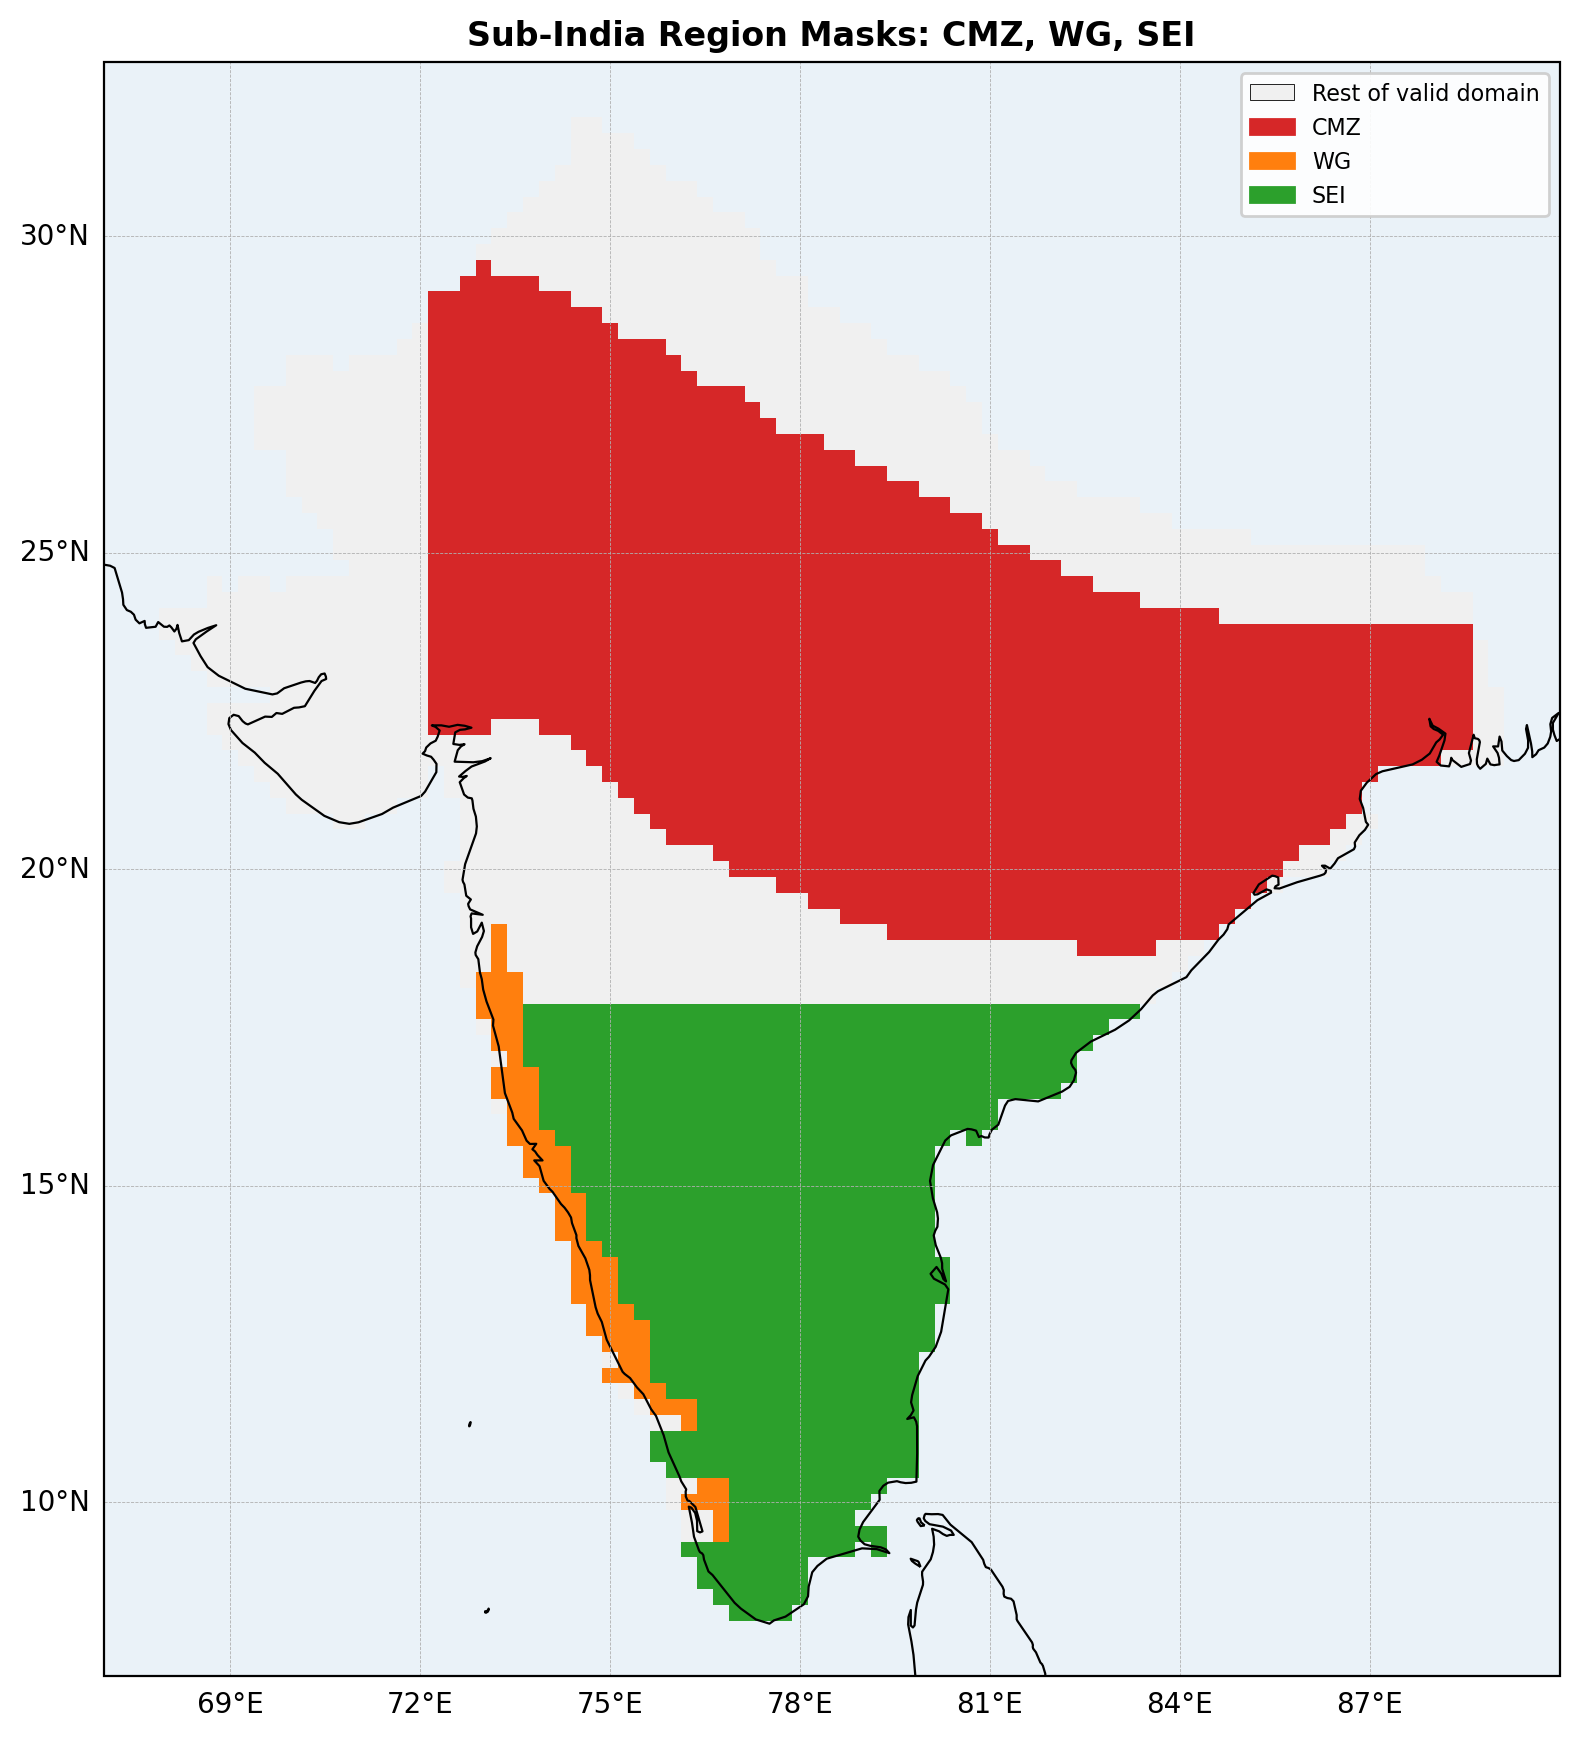
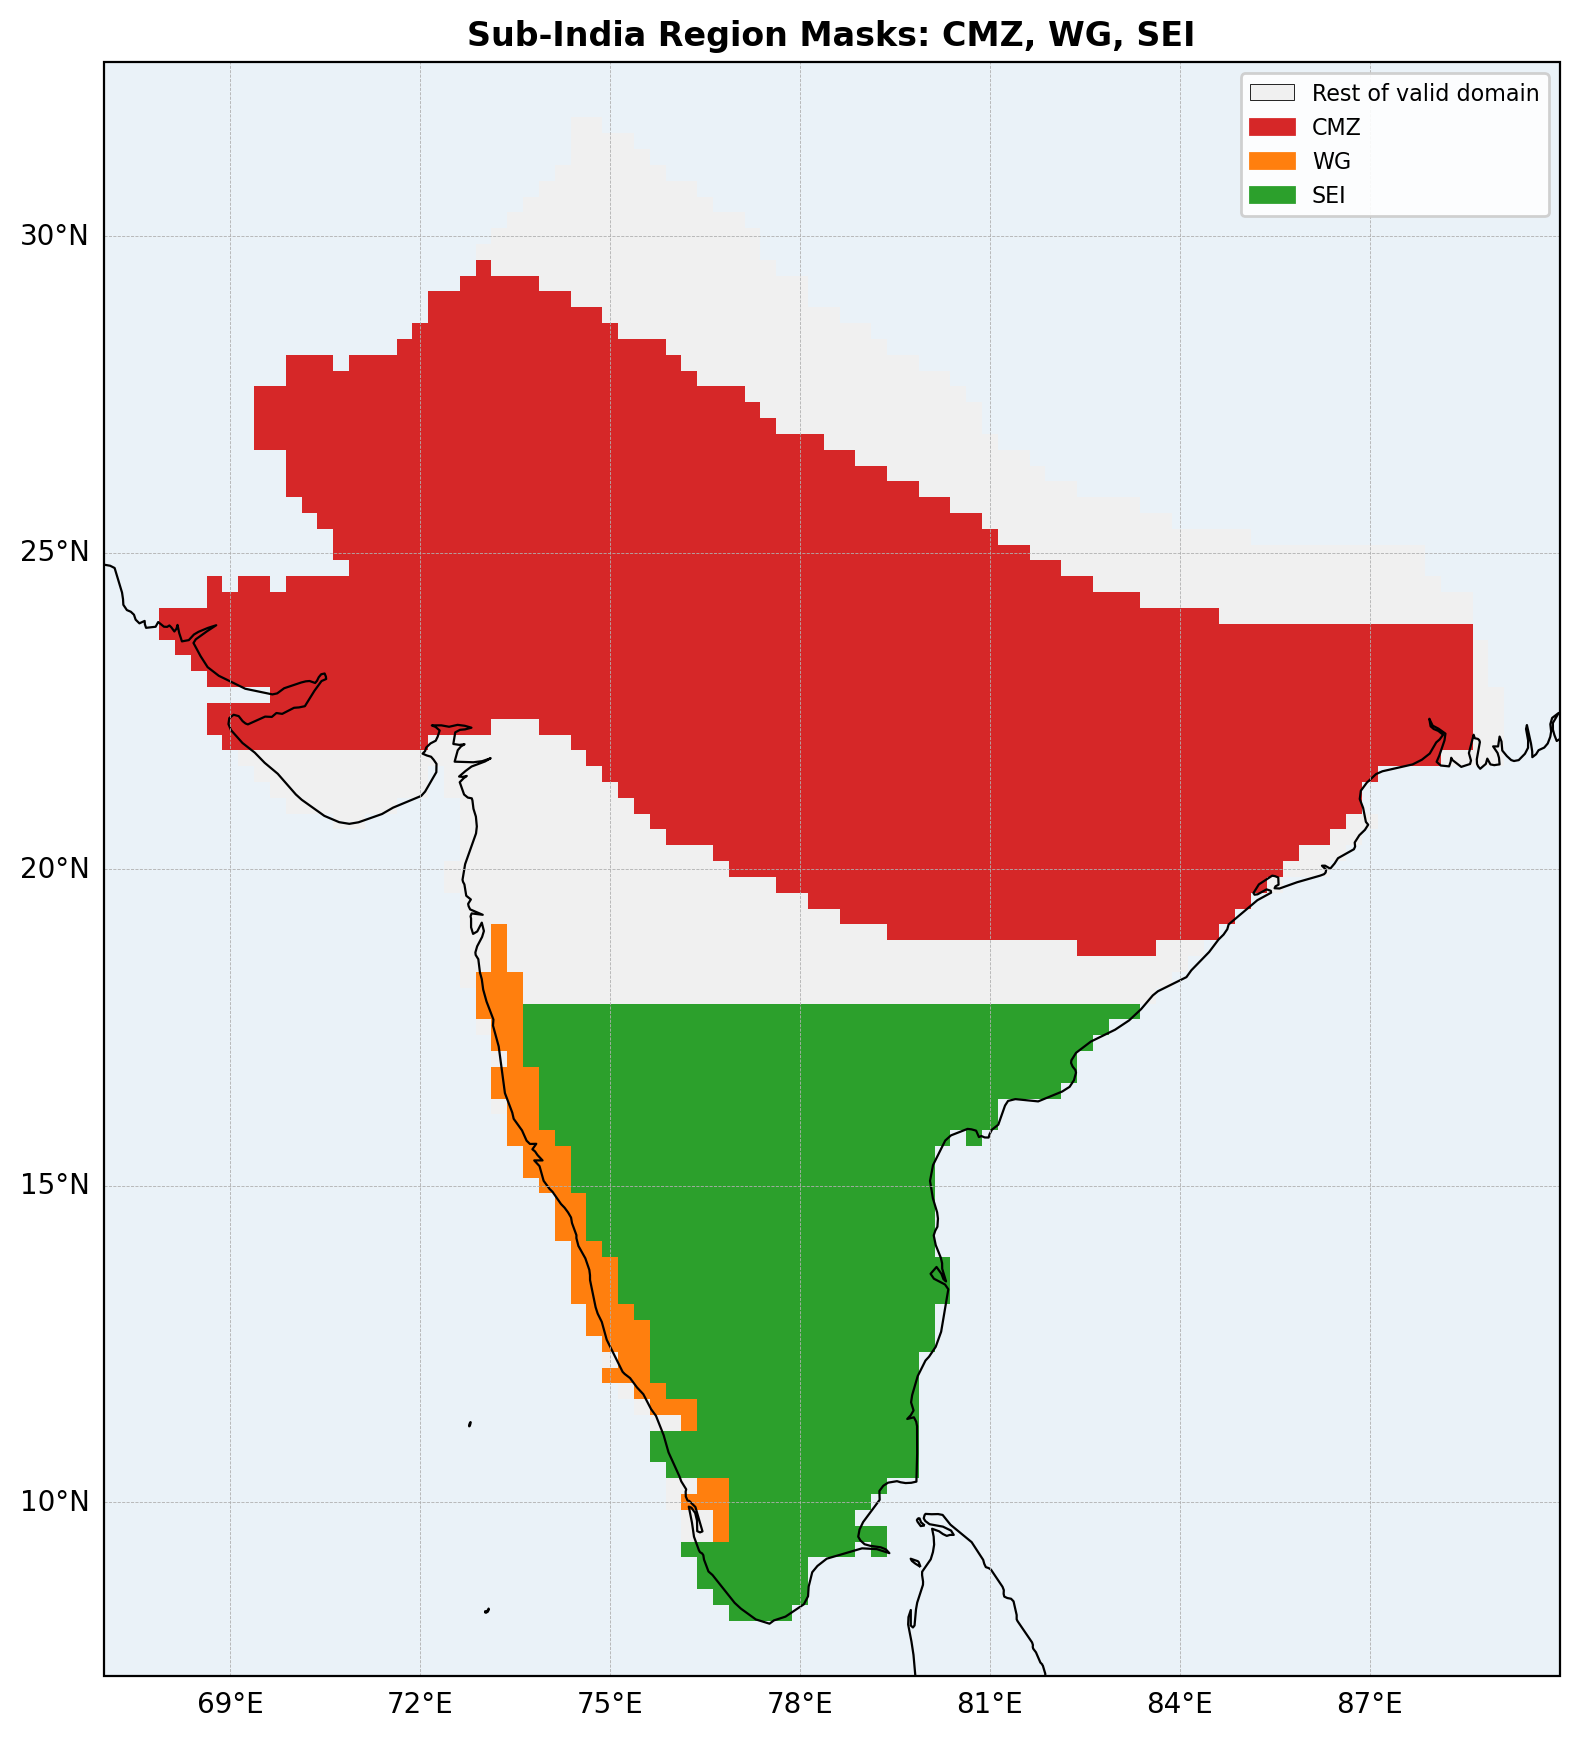
Let CMZ's west edge follow India's real border, not a straight cutoff
compute_subregion_indices.py and plot_eof_comparison_with_regions.py: removed
the west-side longitude cap (previously 72.2E) from the CMZ mask. The east
cap (CMZ_LON_MAX = 88.5) stays, since that's still needed to stop the band
bleeding into northeast India. On the west, the region is now bounded only
by the `valid` domain - i.e. India's actual political border with Pakistan
and the Arabian Sea coastline in Rajasthan/Gujarat - so the north/south
boundary curves' interpolated limits hold flat westward until they hit that
real border, rather than being cut off by an arbitrary vertical line.

CMZ grid points: 1560 -> 1839. Regenerated subregion_indices.csv,
subregion_masks.png, the 17x17 correlation matrix (CMZ-vs-AIRI back up to
0.93, other CMZ correlations shift modestly), and
eof_comparison_with_regions.png.

Changed region(s): [[0.0931, 0.1864, 0.2793, 0.435]]

diff --git a/compute_subregion_indices.py b/compute_subregion_indices.py
@@ -6,14 +6,19 @@ Region definitions (from the user, not independently derived):
   - CMZ: the band between two irregular north/south boundary curves from
     Gadgil et al. (2019) Fig. 3(a), each varying with longitude (not a
     lat/lon box). At each grid point's longitude, the north and south limits
-    are linearly interpolated from the boundary vertices below. Unlike a
-    naive interpolation, this band does NOT extend into northeast India -
-    it's explicitly capped to lon [72.2, 88.5] (a grid point outside that
-    range is never in CMZ, regardless of latitude), rather than holding the
-    nearest boundary vertex flat past the endpoints. A grid point is in CMZ
-    if its longitude is in that range AND its latitude falls between the
-    interpolated south and north limits, intersected with the dataset's own
-    `valid` (monsoon_mask) domain.
+    are linearly interpolated from the boundary vertices below. This band
+    does NOT extend into northeast India - it's explicitly capped at
+    CMZ_LON_MAX = 88.5E (a grid point east of that is never in CMZ,
+    regardless of latitude), rather than holding the north curve's last
+    vertex flat past its endpoint. The WEST side has no such cap: west of
+    the curves' first vertices (72.2E south / 73.2E north), their
+    interpolated latitude limits hold flat at each curve's westernmost
+    value, and the region is bounded there only by the dataset's own
+    `valid` (monsoon_mask) domain - i.e. India's actual western border with
+    Pakistan and the Arabian Sea coastline in Rajasthan/Gujarat, not an
+    arbitrary straight longitude cutoff. A grid point is in CMZ if its
+    longitude is <= CMZ_LON_MAX AND its latitude falls between the
+    interpolated south and north limits, intersected with `valid`.
   - WG: grid points with climatological mean JJAS rainy days (>1mm/day,
     matching this project's threshold convention) exceeding 100 days.
     Checked empirically (see conversation) that this threshold alone, with
@@ -65,8 +70,9 @@ RAINY_DAY_THRESHOLD = 1  # mm/day, matches compute_airi_indices.py
 WG_RAINY_DAYS_THRESHOLD = 100
 DATA_EXTENT = [67.0, 90.0, 7.25, 32.75]
 
-# (lon, lat) pairs, Gadgil et al. (2019) Fig. 3(a). Band spans lon [72.2, 88.5]
-# only - does not extend into northeast India (see CMZ_LON_RANGE below).
+# (lon, lat) pairs, Gadgil et al. (2019) Fig. 3(a). Capped east of CMZ_LON_MAX
+# (does not extend into northeast India); open on the west, bounded only by
+# `valid` (India's actual border) - see CMZ_LON_MAX below.
 NORTH_BOUNDARY = [
     (73.2, 29.5), (73.5, 29.4), (73.9, 29.2), (74.3, 29.0), (74.6, 28.8), (74.9, 28.7),
     (75.2, 28.5), (75.7, 28.3), (76.0, 28.0), (76.3, 27.8), (76.9, 27.6), (77.2, 27.4),
@@ -83,7 +89,7 @@ SOUTH_BOUNDARY = [
     (79.8, 19.0), (80.7, 18.8), (81.1, 18.8), (81.5, 18.8), (81.8, 18.8), (83.1, 18.7),
     (83.9, 18.8), (84.5, 19.0), (84.9, 19.2), (87.4, 21.6), (87.7, 21.7), (88.3, 21.8),
 ]
-CMZ_LON_RANGE = (72.2, 88.5)
+CMZ_LON_MAX = 88.5  # east cap only; west side bounded by `valid` (India's own border)
 SEI_LAT_LIMIT = 18.0
 
 ds = xr.open_dataset('data/rainfall/imd_rain_daily_0p25_monsoon-masked_1901-2020.nc')
@@ -101,8 +107,7 @@ north_lons, north_lats = zip(*sorted(NORTH_BOUNDARY))
 south_lons, south_lats = zip(*sorted(SOUTH_BOUNDARY))
 north_limit = xr.apply_ufunc(np.interp, lon2d, kwargs={'xp': north_lons, 'fp': north_lats})
 south_limit = xr.apply_ufunc(np.interp, lon2d, kwargs={'xp': south_lons, 'fp': south_lats})
-cmz_lon_in_range = (lon2d >= CMZ_LON_RANGE[0]) & (lon2d <= CMZ_LON_RANGE[1])
-cmz_mask = valid & cmz_lon_in_range & (lat2d >= south_limit) & (lat2d <= north_limit)
+cmz_mask = valid & (lon2d <= CMZ_LON_MAX) & (lat2d >= south_limit) & (lat2d <= north_limit)
 
 # --- WG ------------------------------------------------------------------
 rainy_mask = jjas > RAINY_DAY_THRESHOLD

diff --git a/plot_eof_comparison_with_regions.py b/plot_eof_comparison_with_regions.py
@@ -43,7 +43,9 @@ WG_RAINY_DAYS_THRESHOLD = 100
 DATA_EXTENT = [67.0, 90.0, 7.25, 32.75]
 
 # (lon, lat) pairs, Gadgil et al. (2019) Fig. 3(a) - see compute_subregion_indices.py.
-# Band spans lon [72.2, 88.5] only - does not extend into northeast India.
+# Capped east of CMZ_LON_MAX (does not extend into northeast India); open on
+# the west, bounded only by `valid` (India's actual border with Pakistan and
+# the Arabian Sea coastline in Rajasthan/Gujarat).
 NORTH_BOUNDARY = [
     (73.2, 29.5), (73.5, 29.4), (73.9, 29.2), (74.3, 29.0), (74.6, 28.8), (74.9, 28.7),
     (75.2, 28.5), (75.7, 28.3), (76.0, 28.0), (76.3, 27.8), (76.9, 27.6), (77.2, 27.4),
@@ -60,7 +62,7 @@ SOUTH_BOUNDARY = [
     (79.8, 19.0), (80.7, 18.8), (81.1, 18.8), (81.5, 18.8), (81.8, 18.8), (83.1, 18.7),
     (83.9, 18.8), (84.5, 19.0), (84.9, 19.2), (87.4, 21.6), (87.7, 21.7), (88.3, 21.8),
 ]
-CMZ_LON_RANGE = (72.2, 88.5)
+CMZ_LON_MAX = 88.5  # east cap only; west side bounded by `valid` (India's own border)
 SEI_LAT_LIMIT = 18.0
 REGION_COLORS = {'CMZ': '#d62728', 'WG': '#ff7f0e', 'SEI': '#2ca02c'}
 
@@ -77,8 +79,7 @@ north_lons, north_lats = zip(*sorted(NORTH_BOUNDARY))
 south_lons, south_lats = zip(*sorted(SOUTH_BOUNDARY))
 north_limit = xr.apply_ufunc(np.interp, lon2d, kwargs={'xp': north_lons, 'fp': north_lats})
 south_limit = xr.apply_ufunc(np.interp, lon2d, kwargs={'xp': south_lons, 'fp': south_lats})
-cmz_lon_in_range = (lon2d >= CMZ_LON_RANGE[0]) & (lon2d <= CMZ_LON_RANGE[1])
-cmz_mask = valid & cmz_lon_in_range & (lat2d >= south_limit) & (lat2d <= north_limit)
+cmz_mask = valid & (lon2d <= CMZ_LON_MAX) & (lat2d >= south_limit) & (lat2d <= north_limit)
 
 rainy_mask_all = jjas > RAINY_DAY_THRESHOLD
 mean_rainy_days = (rainy_mask_all.sum(dim='time') / n_years).where(valid)

diff --git a/CLAUDE.md b/CLAUDE.md
@@ -206,15 +206,19 @@ already applied and doesn't touch this open issue.
 - Sub-India region masks (`compute_subregion_indices.py`, and duplicated in
   `plot_eof_comparison_with_regions.py`) are irregular, data-driven regions, not simple lat/lon boxes -
   don't simplify them back to a box "for clarity" without checking with the user first. CMZ's boundary
-  curves were corrected once already: an earlier version held the north/south curves' endpoint values
-  flat past their covered longitude range (`numpy.interp`'s default), which let the mask bleed into
-  northeast India and covered ~64% of India's valid domain. The corrected version explicitly caps CMZ to
-  `CMZ_LON_RANGE = (72.2, 88.5)` - outside that longitude range the mask is always False, no flat-holding
-  - giving a compact ~1560-gridpoint band that stops before the northeast, matching a much more plausible
-  "Central Monsoon Zone" shape. If CMZ's boundary curves change again, remember this project's default
-  numpy.interp behavior (flat extrapolation) is usually NOT what you want for a region that's meant to
-  have hard edges - always check whether an explicit lon/lat range cap is needed alongside the curve
-  interpolation, not just the curve values themselves. Always regenerate and look at
+  has been corrected twice: (1) an earlier version held the north/south curves' endpoint values flat past
+  their covered longitude range (`numpy.interp`'s default), which let the mask bleed into northeast India
+  and covered ~64% of India's valid domain - fixed by capping the EAST side at `CMZ_LON_MAX = 88.5`
+  (a grid point east of that is never CMZ, no flat-holding); (2) the first fix also capped the WEST side
+  at a fixed longitude (72.2), which cut CMZ off with an artificial straight vertical line instead of
+  following India's actual western border - fixed by removing the west-side cap entirely and letting
+  `valid` (India's real border with Pakistan + the Arabian Sea coast in Rajasthan/Gujarat) bound it
+  naturally, so the north/south curves' interpolated limits hold flat westward until they hit that real
+  border. Current state: CMZ is capped east, open west (bounded by `valid`), 1839 grid points. If CMZ's
+  boundary curves change again, remember this project's default numpy.interp behavior (flat extrapolation)
+  is usually NOT what you want for a region with a hard edge (like the east cap) but IS what you want
+  where the region should naturally extend to the country's real border (like the west side) - think
+  through which applies before adding or removing a range cap. Always regenerate and look at
   `figures/subregion_masks.png` after touching region-boundary logic in either script - it's easy to
   introduce a subtle sign/direction error (e.g. north vs south boundary swapped, east vs west of a
   per-latitude edge) that still produces a plausible-looking but wrong mask.

diff --git a/README.md b/README.md
@@ -99,11 +99,12 @@ large for GitHub. Only code, figures, and documentation are tracked.
   loading saved output — see this script if you need to change what the comparison shows.
 - `compute_subregion_indices.py` — detrended mean JJAS rainfall anomaly for 3 sub-India regions: CMZ
   (Central Monsoon Zone, the band between two irregular north/south boundary curves digitized from
-  Gadgil et al. 2019 Fig. 3(a), explicitly capped to lon [72.2°E, 88.5°E] — the band does not extend into
-  northeast India, unlike an earlier version of these boundaries that held the curve's endpoint flat past
-  its covered range and ended up covering ~64% of India's valid domain. The corrected version is a
-  compact ~1560-gridpoint diagonal band from Gujarat/Rajasthan through MP/Chhattisgarh/Jharkhand to West
-  Bengal, capped before the northeast — a much more plausible "Central Monsoon Zone" shape), WG (Western
+  Gadgil et al. 2019 Fig. 3(a). Capped at `CMZ_LON_MAX = 88.5°E` on the east — the band does not extend
+  into northeast India, unlike an earlier version that held the curve's endpoint flat past its covered
+  range and ended up covering ~64% of India's valid domain. The WEST side has no such cap: rather than a
+  straight longitude cutoff, it's bounded only by the dataset's own `valid` domain, i.e. India's actual
+  border with Pakistan and the Arabian Sea coastline in Rajasthan/Gujarat — 1839 grid points, following
+  the real jagged border shape rather than a vertical line), WG (Western
   Ghats — grid points with >100 climatological mean JJAS rainy days; checked empirically that this
   threshold alone, no extra geographic restriction needed, is already confined to the coastal strip
   lon 73-76.75°E, lat 9.5-19°N), and SEI (Southeast India — east of WG's per-latitude eastern edge, south
@@ -120,7 +121,7 @@ large for GitHub. Only code, figures, and documentation are tracked.
   AIRI/standardized-anomaly/N-positive-gridpoints/mean-rainy-days/PC1-amount/PC1-freq are all tightly
   correlated (r≥0.93, largely the same signal, PC1-freq vs mean-rainy-days=1.00 exactly since EOF1
   dominates that field's variance); mean intensity and mean positive/negative anomaly are more
-  independent. CMZ correlates very strongly with AIRI (r=0.90, expected given its size); SEI is the most
+  independent. CMZ correlates very strongly with AIRI (r=0.93, expected given its size); SEI is the most
   distinct region, anti-correlating with both PC2-amount (r=-0.57) and PC1-intensity (r=-0.58) —
   consistent with SEI being governed more by the northeast monsoon than the southwest-monsoon signal
   everything else here measures. -NINO3.4 vs AIRI = 0.54 (matches the standalone sanity check in
